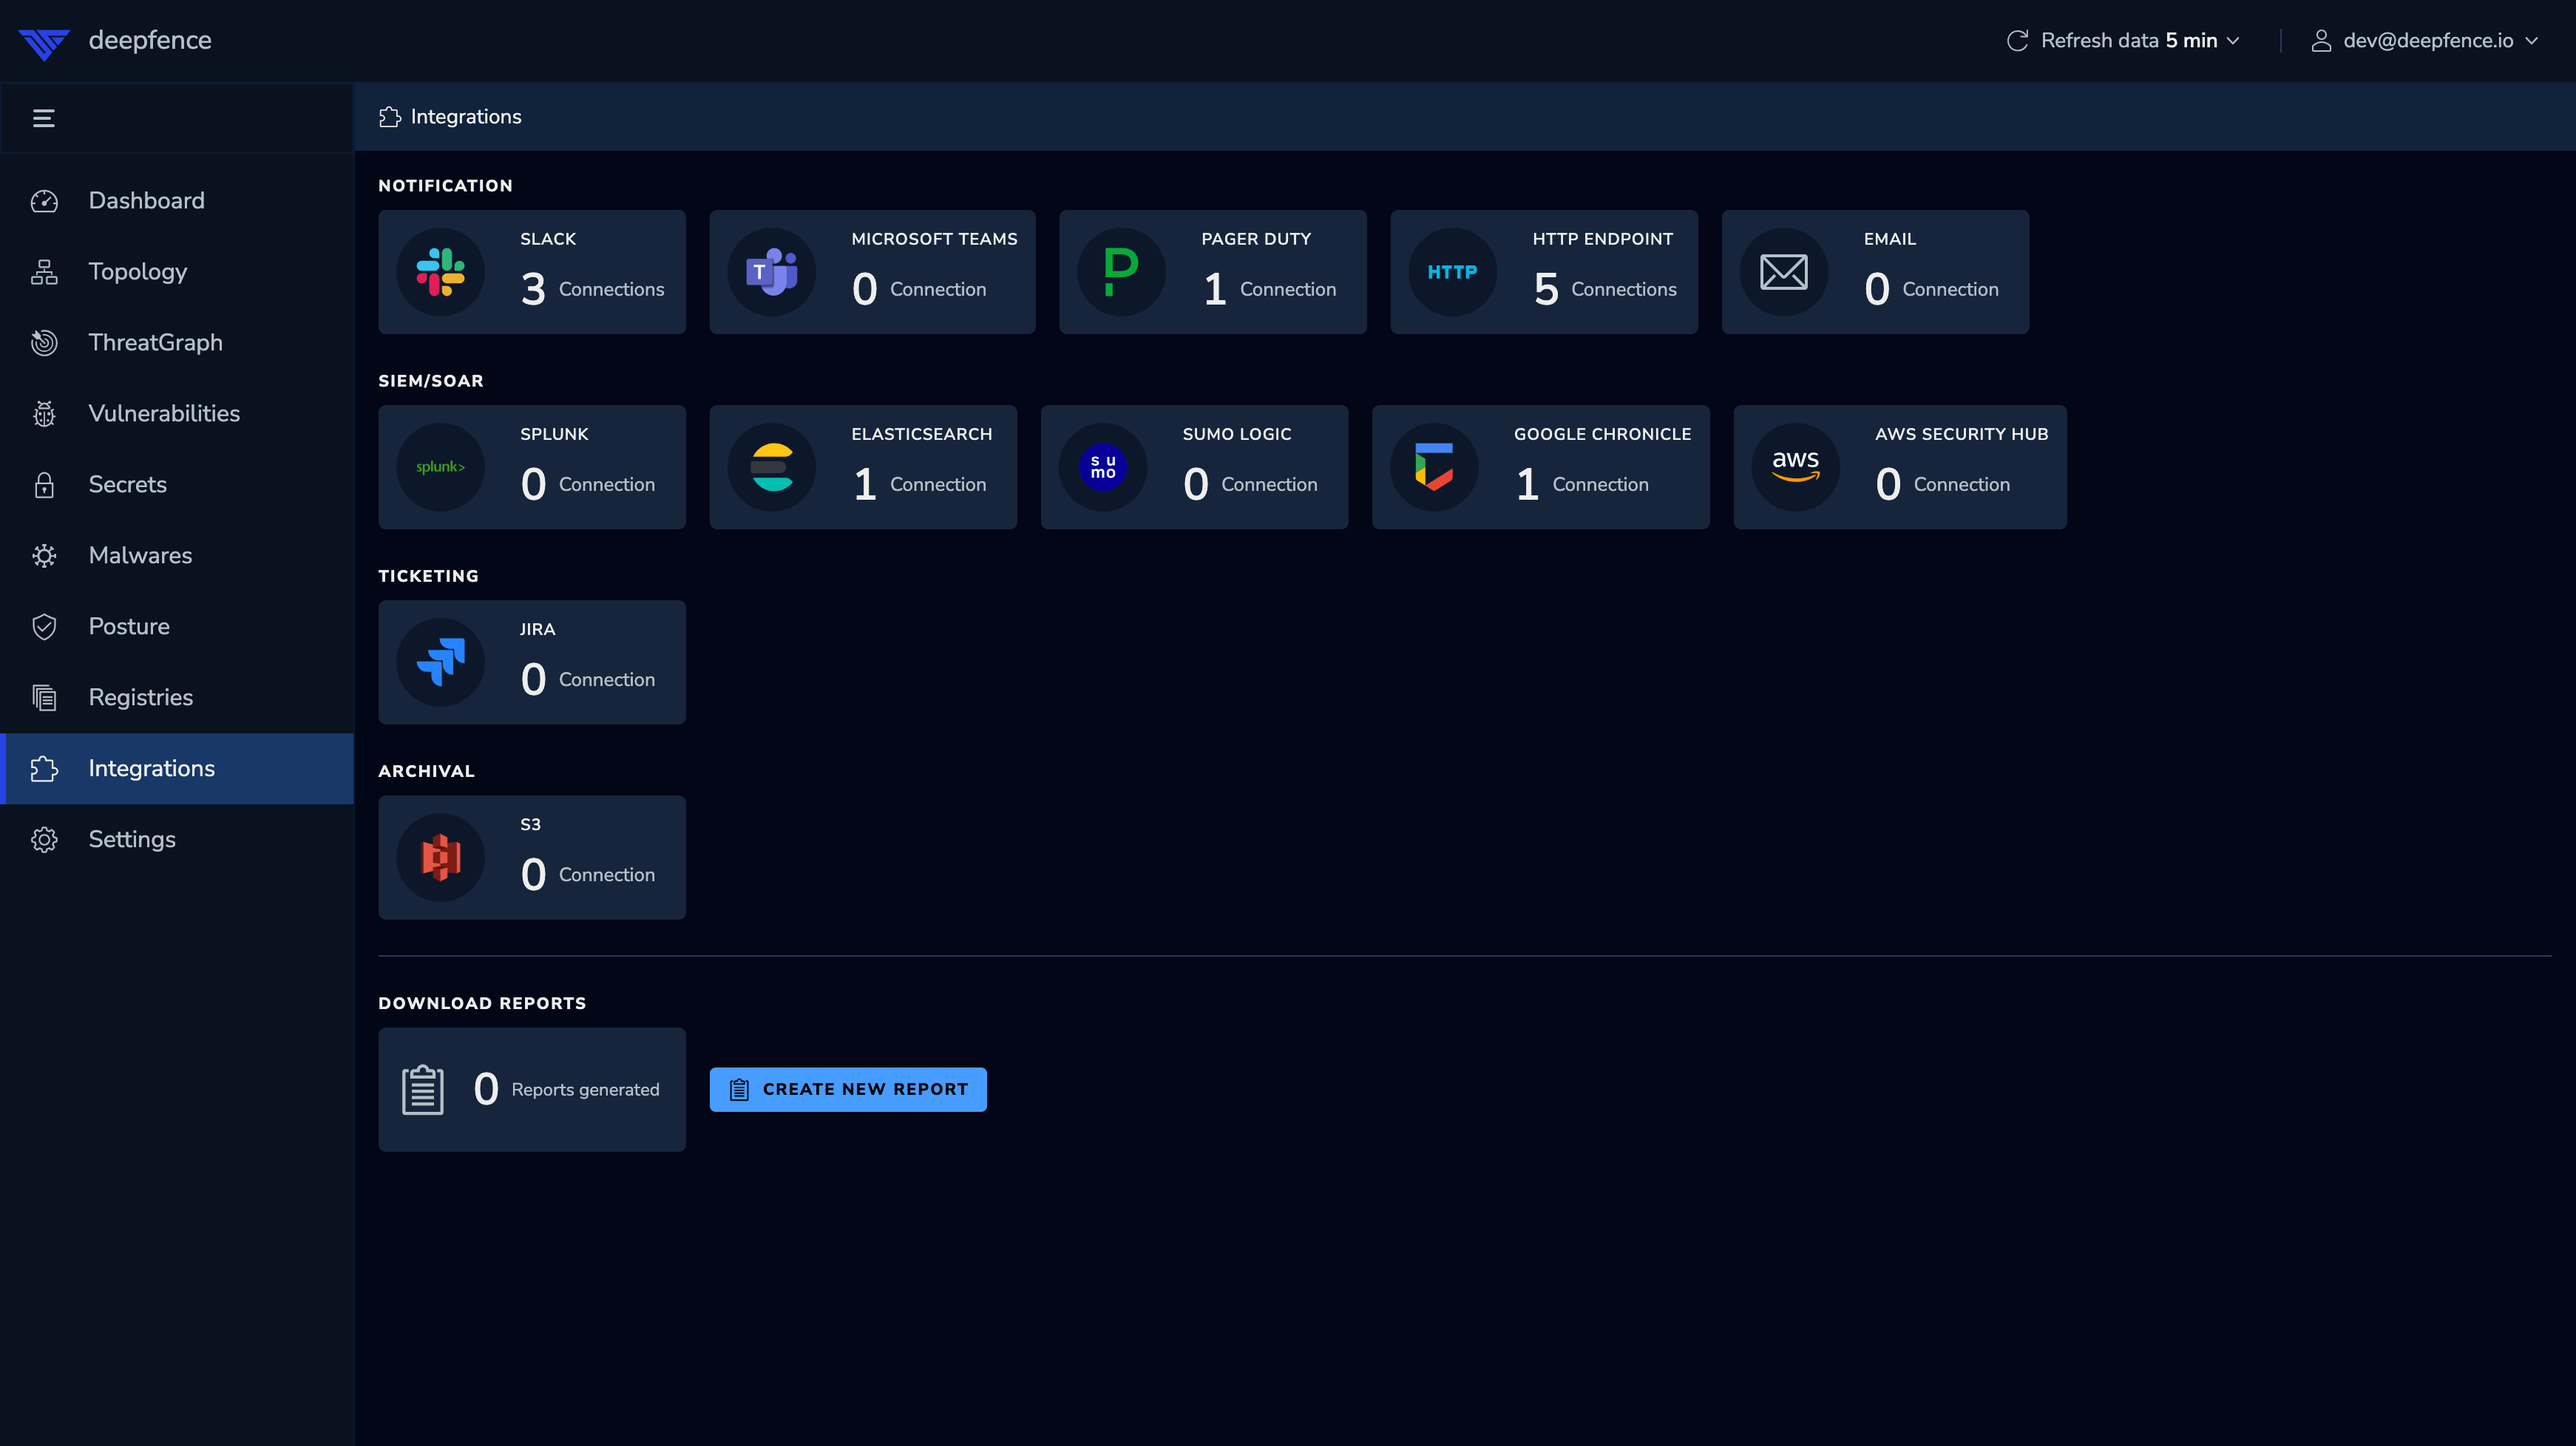
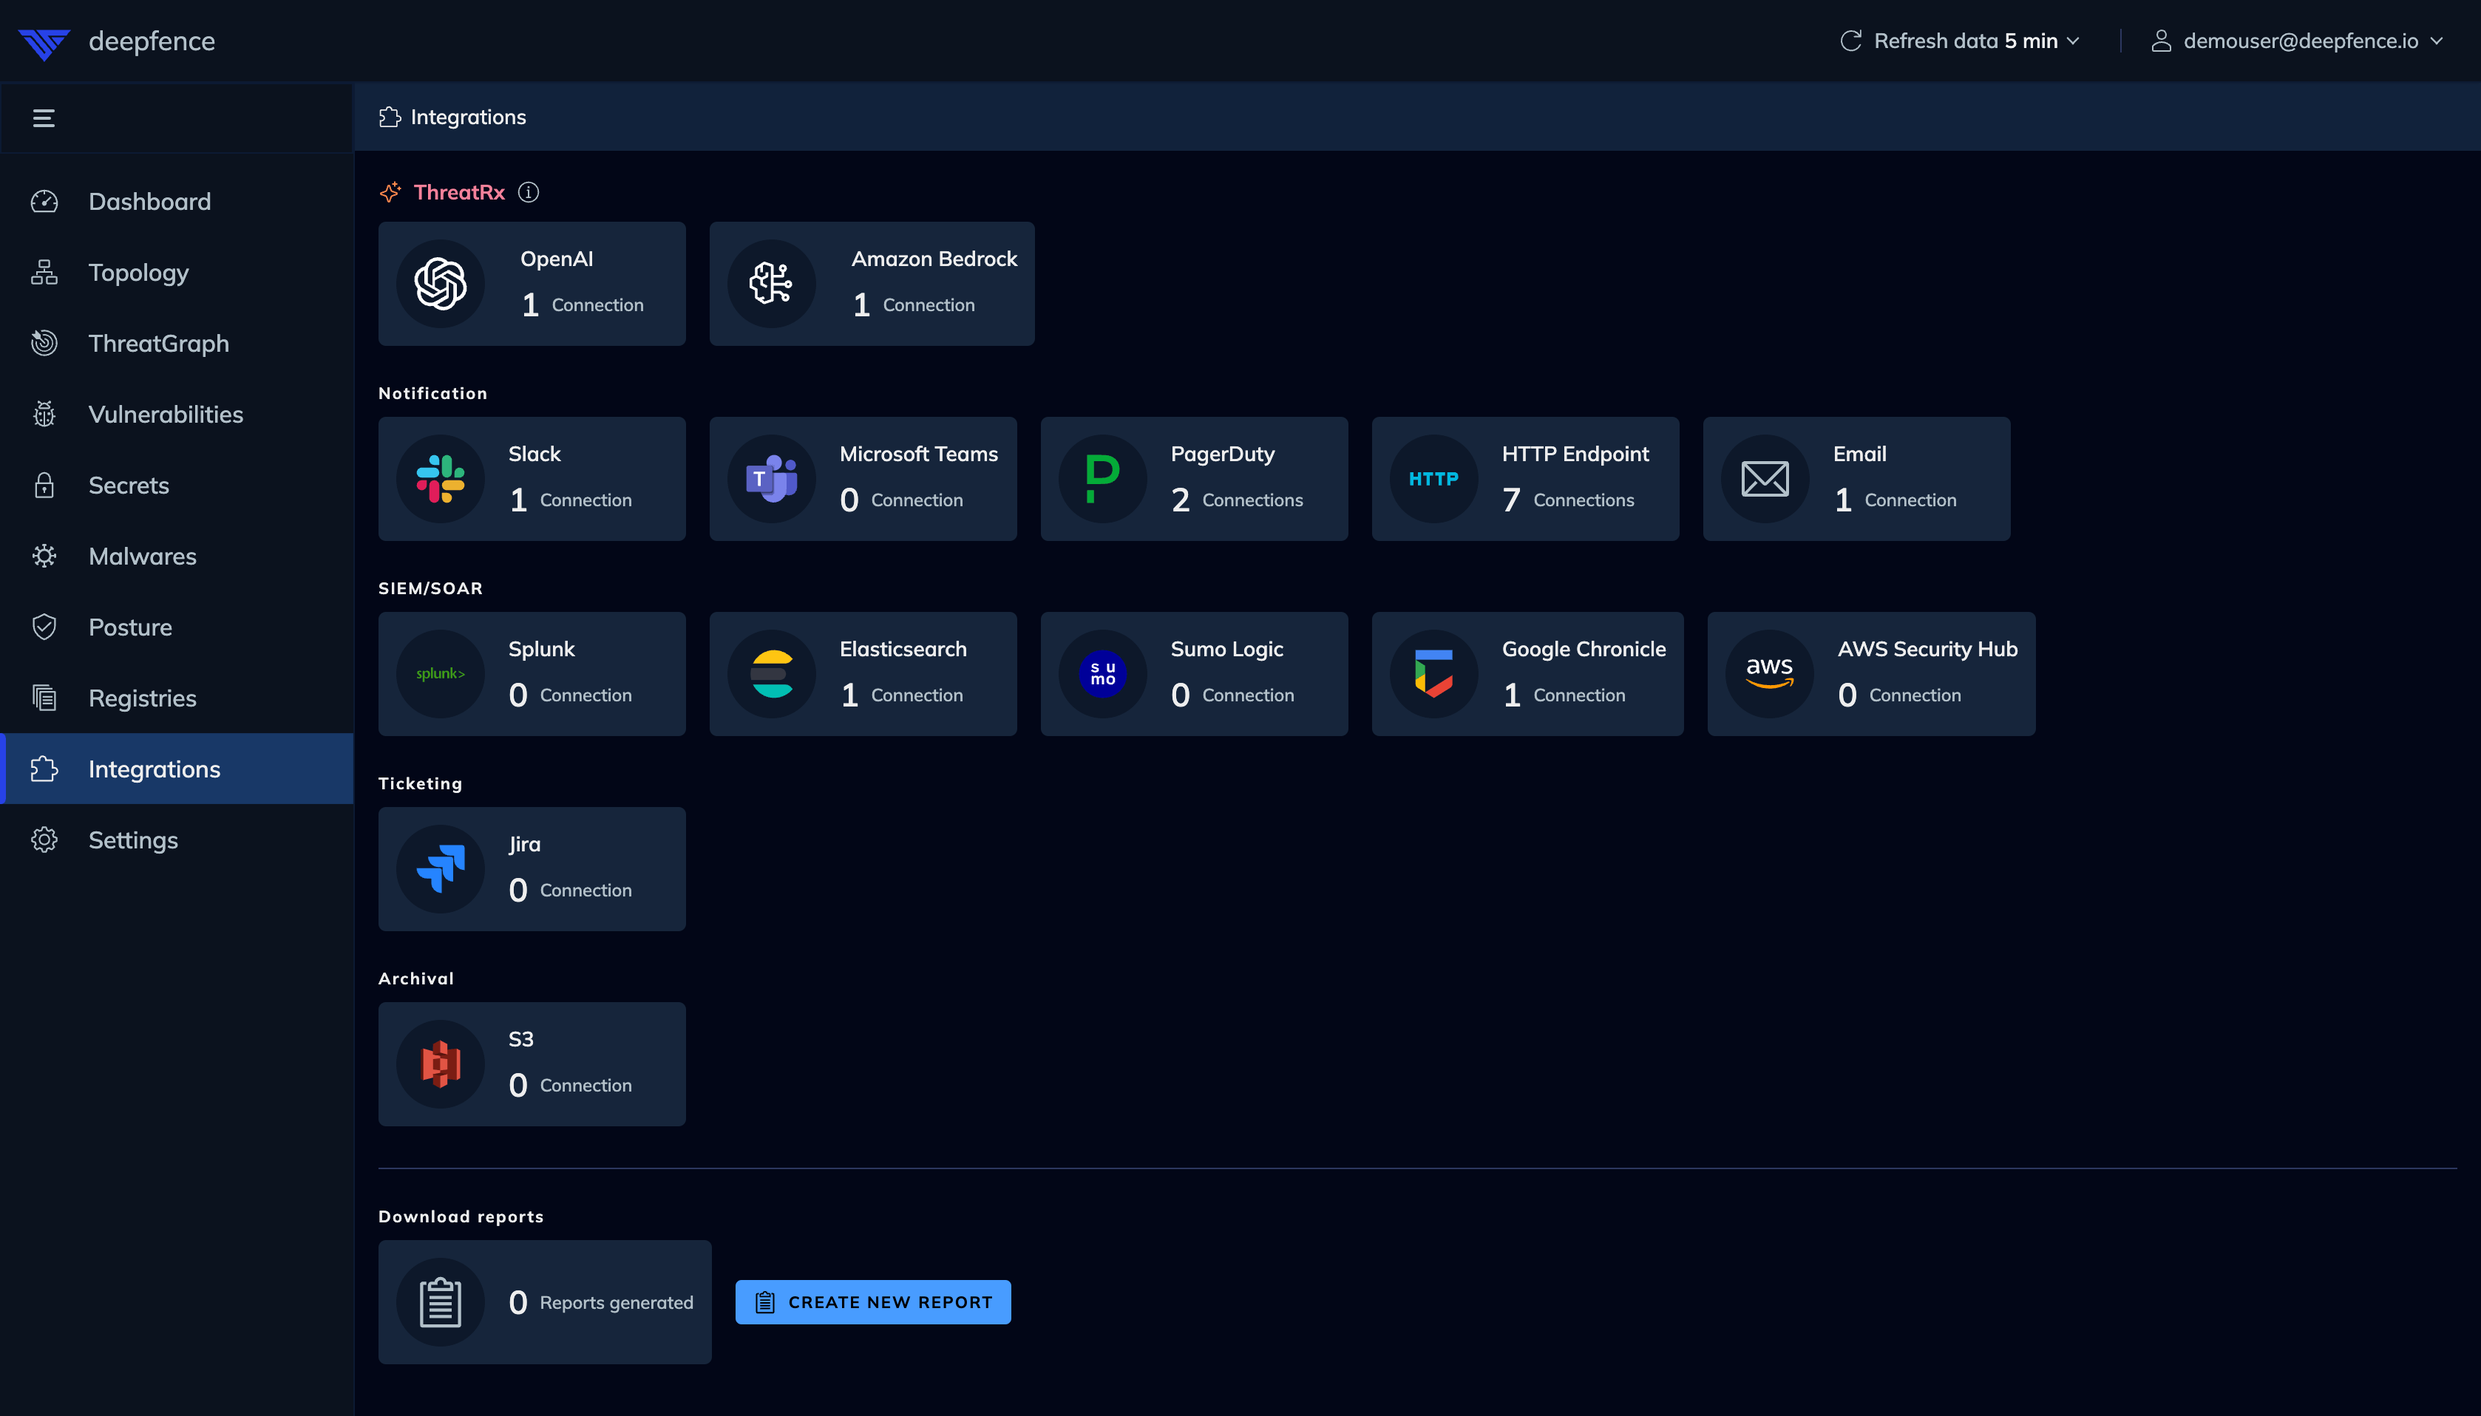
Update docs (#2177)

diff --git a/docs/sidebars.js b/docs/sidebars.js
@@ -144,6 +144,7 @@ const sidebars = {
         id: 'integrations/index'
       },
       items: [
+        'integrations/threatrx',
         'integrations/pagerduty',
         'integrations/slack',
         'integrations/microsoft-teams',

diff --git a/docs/docs/integrations/threatrx.md b/docs/docs/integrations/threatrx.md
@@ -1,0 +1,41 @@
+---
+title: ThreatRx
+---
+
+# ThreatRx
+
+ThreatRx is LLM-assisted remediation for cloud misconfigurations (CSPM scans), vulnerabilities, malwares and secrets.
+
+Following LLM integrations are available:
+- OpenAI
+- Amazon Bedrock
+
+For more details, please visit Deepfence blog here:
+- https://www.deepfence.io/blog/deepfence-revolutionizes-cloud-security-with-ai-powered-remediation-introducing-threatrx-part-1
+- https://www.deepfence.io/blog/deepfence-revolutionizes-cloud-security-with-ai-powered-remediation-introducing-threatrx-part-2
+
+## To Configure OpenAI
+
+1. Create an API key here: https://platform.openai.com/api-keys
+
+   ![OpenAI](../img/integrations-threatrx-1.png)
+
+2. In the integrations page, select **ThreatRx** and click **OpenAI** to create a new integration. Choose the OpenAI model, enter the API key and click save.
+
+   ![OpenAI](../img/integrations-threatrx-2.png)
+
+3. Navigate to cloud posture scan results or vulnerability scan results and click **ThreatRx** button on the scan result side panel to get the remediation steps.
+
+   ![OpenAI](../img/integrations-threatrx-3.png)
+
+## To Configure Amazon Bedrock
+
+1. Enable any text/chat model in Amazon Bedrock.
+
+   ![Amazon Bedrock](../img/integrations-threatrx-4.png)
+
+2. In the integrations page, select **ThreatRx** and click **Amazon Bedrock** to create a new integration. Choose the Amazon Bedrock model, enter the access key and secret key and click save. Alternatively, if the console has write permission to Amazon Bedrock via instance IAM role, you can choose to add the models automatically.
+
+   ![Amazon Bedrock](../img/integrations-threatrx-5.png)
+
+3. Navigate to cloud posture scan results or vulnerability scan results and click **ThreatRx** button on the scan result side panel to get the remediation steps.
